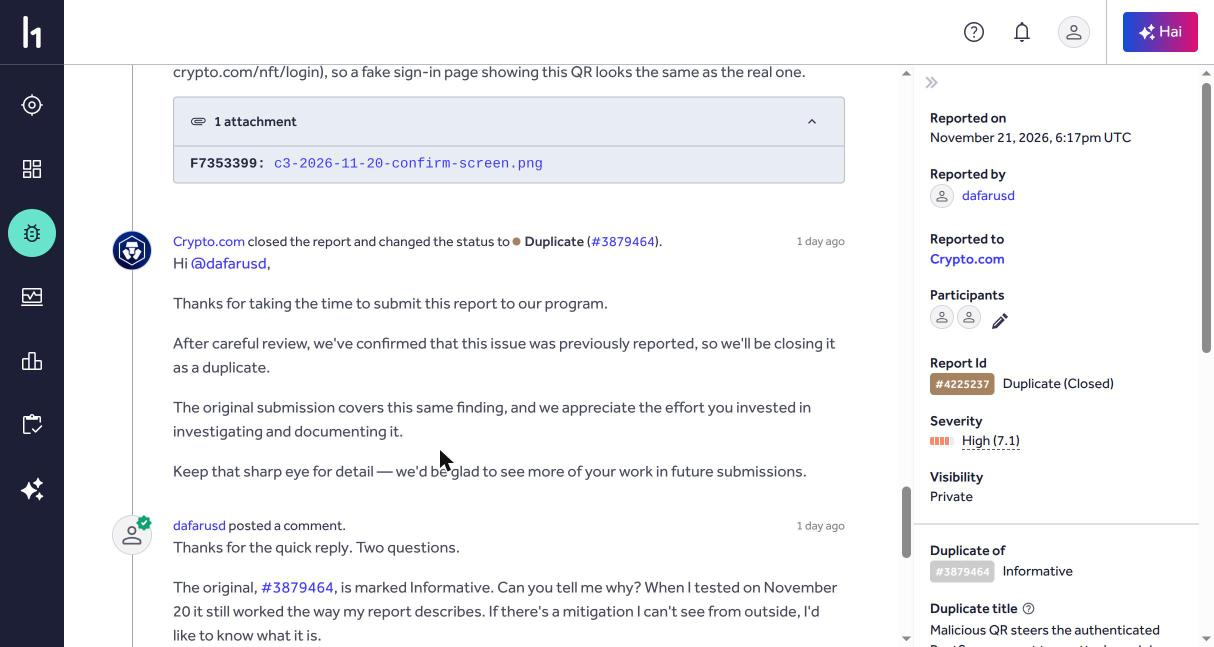
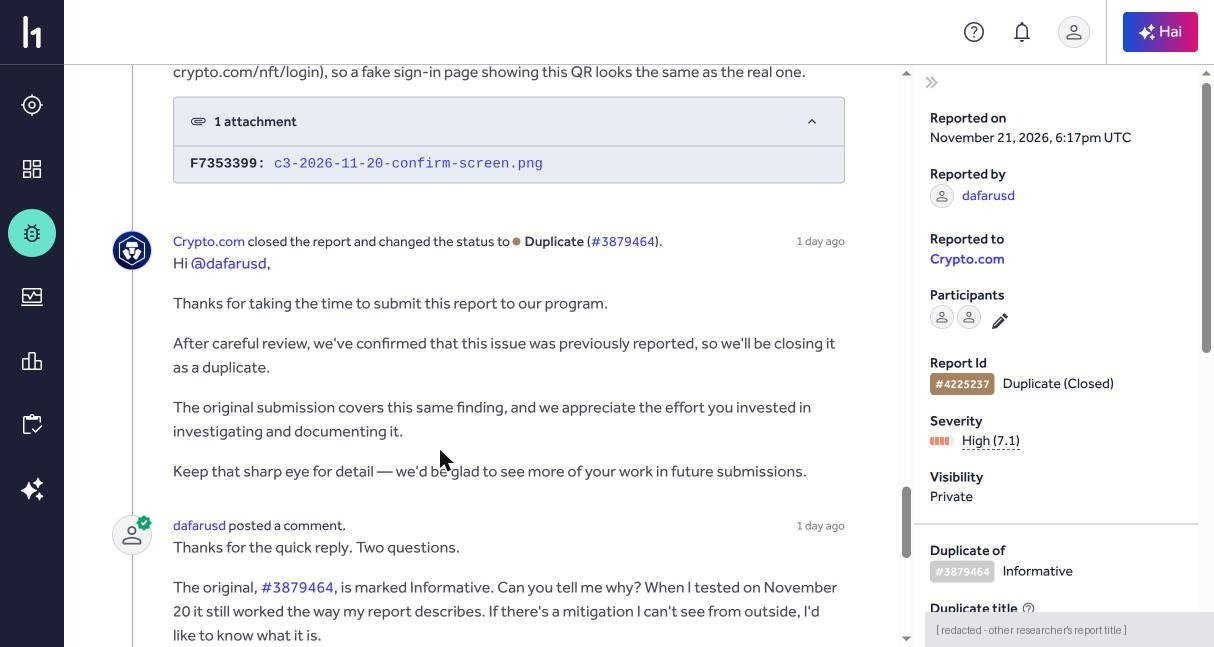
Redact a leaked third-party title and correct six overstated claims
The response screenshot's sidebar still showed the other researcher's report
title in full, directly beside a sentence saying it was redacted. Covered.

Corrections, all from re-reading the source notes rather than the write-up:

- Dropped the flat 'this does not move money'. The notes say no money-moving
  call was attempted and whether one would succeed is untested. Saying it is
  unreachable claims more than was checked.
- 'Crypto.com's own triage rated it High (7.4)' is not supportable from
  outside. The HackerOne severity field carries my own self-assessed 7.1 on my
  report, so the 7.4 may be the reporter's. Now says HackerOne shows it at High.
- The no-further-tap path needs the NFT terms already accepted. Added.
- 'Reproduced four times, same result' overstated it: the token leak happened
  on all four runs, the full chain through to a decrypted PIN on the fourth.
- The six-digit field is identified by position and length, not observed. Moved
  out of the proven list and said so plainly.
- Plaintext length varies between runs; 39 bytes was one run.

Changed region(s): [[0.7619, 0.9274, 1.0, 1.0]]

diff --git a/cryptocom-qr-signin.md b/cryptocom-qr-signin.md
@@ -6,9 +6,10 @@ authorise the prompt that follows, your PIN too.
 
 Tested on `co.mona.android` 3.245.02, Galaxy S24 Ultra (SM-S928B), against my own account only.
 
-**This does not move money.** No transfer or withdrawal is reachable with what the attack yields,
-and withdrawals require a one-time code when 2FA is on. What it hands over is a live session token
-and a PIN.
+**I didn't attempt any money-moving request, so I can't tell you whether one is reachable.**
+Withdrawal and transfer calls carry the passcode, and ask for a one-time code when 2FA is on. What
+the attack hands over is a live session token and the PIN. Whether that's enough for a withdrawal
+is untested and I'm not claiming either way.
 
 ## What happens
 
@@ -23,7 +24,8 @@ somewhere harmless — a query parameter, for instance — passes while pointing
 From there it unravels in three steps.
 
 **1. The token leaves on the scan itself.** The app POSTs to the URL from the QR, attaching the
-user's live bearer token. No screen in between, nothing to approve. The request also carries the
+user's live bearer token. No screen in between, nothing to approve — on an account that has already
+accepted the NFT terms, which mine had. An account that hasn't gets a terms sheet first. The request also carries the
 account UUID, region, device model and session identifiers.
 
 **2. The confirmation screen is written by the attacker.** Whatever that server replies with fills
@@ -46,15 +48,15 @@ the real one. The user is doing the thing they were told to do.
 
 Proven:
 
-- One scan sends the access token to a host of the attacker's choosing, with no further tap.
+- One scan sends the access token to a host of the attacker's choosing, with no further tap, on an account with the NFT terms already accepted.
 - The token works from a different machine: an authenticated endpoint returns 401 without it, 200 with it.
-- With Authorize plus PIN entry, the PIN arrives too and decrypts to the six digits.
-- Reproduced four times across two days, same result.
+- With Authorize plus PIN entry, the passcode arrives too and decrypts to a six-digit field in the position the code says the PIN occupies. I never looked at the digits.
+- Four runs across two days. The token leaving on the scan happened every time; the full chain through to a decrypted PIN landed on the fourth.
 
 Not proven:
 
 - No profile or balance read. A separate filter rejected my attempts from a laptop and I didn't try to get past it.
-- No money-moving request was attempted, and none is reachable from this.
+- No money-moving request was attempted. Whether one would succeed with the token and PIN is untested.
 - iOS wasn't tested.
 
 ## Root causes
@@ -75,8 +77,9 @@ Not proven:
 ## What Crypto.com did with it
 
 Someone else found this first. Report #3879464, submitted **21 July 2026** — four months before
-mine. Crypto.com's own triage rated it **High (7.4)**. They closed it **Informative**: valid
-information, not a vulnerability they'd act on.
+mine. HackerOne shows it at **High (7.4)** — I can't tell from outside whether Crypto.com set that
+or the reporter did, since my own report's 7.1 is my self-assessed CVSS. They closed it
+**Informative**: valid information, not a vulnerability they'd act on.
 
 Mine (#4225237, High 7.1) was closed the next day as its duplicate:
 
@@ -86,8 +89,8 @@ Mine (#4225237, High 7.1) was closed the next day as its duplicate:
 
 ![Crypto.com closing the report as a duplicate](img/h1-4225237-cryptocom-response.jpg)
 
-The sidebar carries the part that matters — the original's date, Crypto.com's own severity rating,
-and the Informative label. The other researcher's report title is redacted; it isn't public and
+The sidebar carries the part that matters — the original's date, its severity, and the Informative
+label. The other researcher's report title is redacted; it isn't public and
 isn't mine to publish.
 
 ![Duplicate of #3879464, Informative, submitted July 21 2026, severity High 7.4](img/h1-4225237-duplicate-of-informative.jpg)
@@ -95,7 +98,7 @@ isn't mine to publish.
 I asked why the original was Informative, and whether they objected to my publishing. No reply.
 Report #3879464 isn't public, so there's nothing to read on their reasoning.
 
-Four months after the first report, with the vendor's own triage calling it High, it still works.
+Four months after the first report, with HackerOne showing it at High, it still worked when I last tested it on 2026-11-21.
 
 ## Reproducing it
 
@@ -151,9 +154,11 @@ with the SHA-256 hex of `co.mona.android.core.config`, giving 64 hex characters 
 a 32-byte AES key. Fingerprint, so you can check you derived the same one:
 `sha256(key hex)[:12] = d2170cf3c248`.
 
-AES-256-CBC with that key gives valid padding and a 39-byte plaintext:
+AES-256-CBC with that key gives valid padding and a 39-byte plaintext on that run (the trailing random field varies in length between runs, so expect roughly 39-41):
 `<6 digits>-<13-digit ms timestamp>-<random hex>`. The HMAC verifies with the same key. The six
-digits are the PIN. I logged lengths and character classes only, never my own digits.
+digits sit where the code says the PIN goes, and my PIN is six digits long. I logged lengths and
+character classes only and never looked at the value, so that identification is a reading of the
+code and the shape, not something I watched.
 
 ## Timeline
 
@@ -161,7 +166,7 @@ digits are the PIN. I logged lengths and character classes only, never my own di
 |---|---|
 | 2026-11-20 | Found and reproduced, against my own account and my own phone. |
 | 2026-11-21 | Reproduced again, PIN decryption confirmed, reported to Crypto.com through HackerOne. |
-| 2026-11-22 | Closed as a duplicate of #3879464 — submitted 2026-07-21, rated High (7.4) by Crypto.com, closed Informative. Asked why, since the behaviour still worked as described, and asked whether they objected to my publishing. |
+| 2026-11-22 | Closed as a duplicate of #3879464 — submitted 2026-07-21, shown at High (7.4), closed Informative. Asked why, since the behaviour still worked as described, and asked whether they objected to my publishing. |
 | 2026-11-24 | Still no reply. Published in full, since the behaviour has been declared a non-issue twice and there's nothing to hold for. |
 
 Screenshots taken from my own HackerOne account on 2026-11-24.

diff --git a/README.md b/README.md
@@ -6,6 +6,6 @@ vulnerability.
 
 | Finding | Target | Status |
 |---|---|---|
-| [Crypto.com Android: crafted QR code leaks access token and PIN](cryptocom-qr-signin.md) | `co.mona.android` 3.245.02 | First reported to the vendor 2026-07-21 by another researcher and closed Informative; mine closed as its duplicate 2026-11-22; published in full 2026-11-24 |
+| [Crypto.com Android: crafted QR code leaks access token and PIN](cryptocom-qr-signin.md) | `co.mona.android` 3.245.02 | First reported 2026-07-21 by another researcher and closed Informative; mine closed as its duplicate 2026-11-22; published in full 2026-11-24 |
 
 Tested against my own accounts and my own hardware only.
